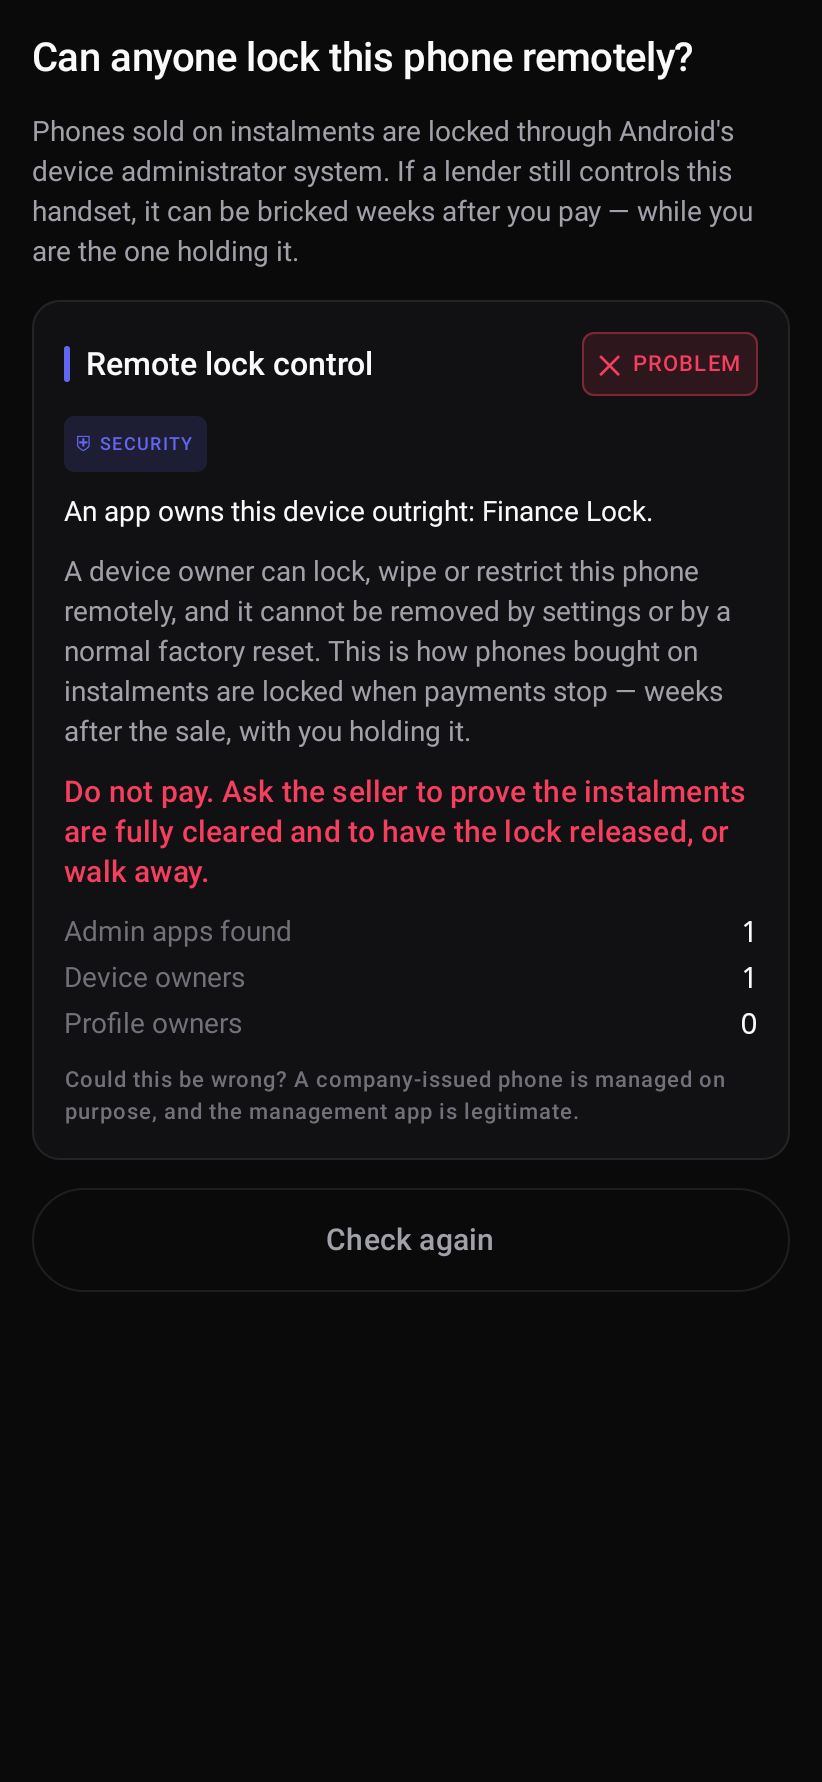
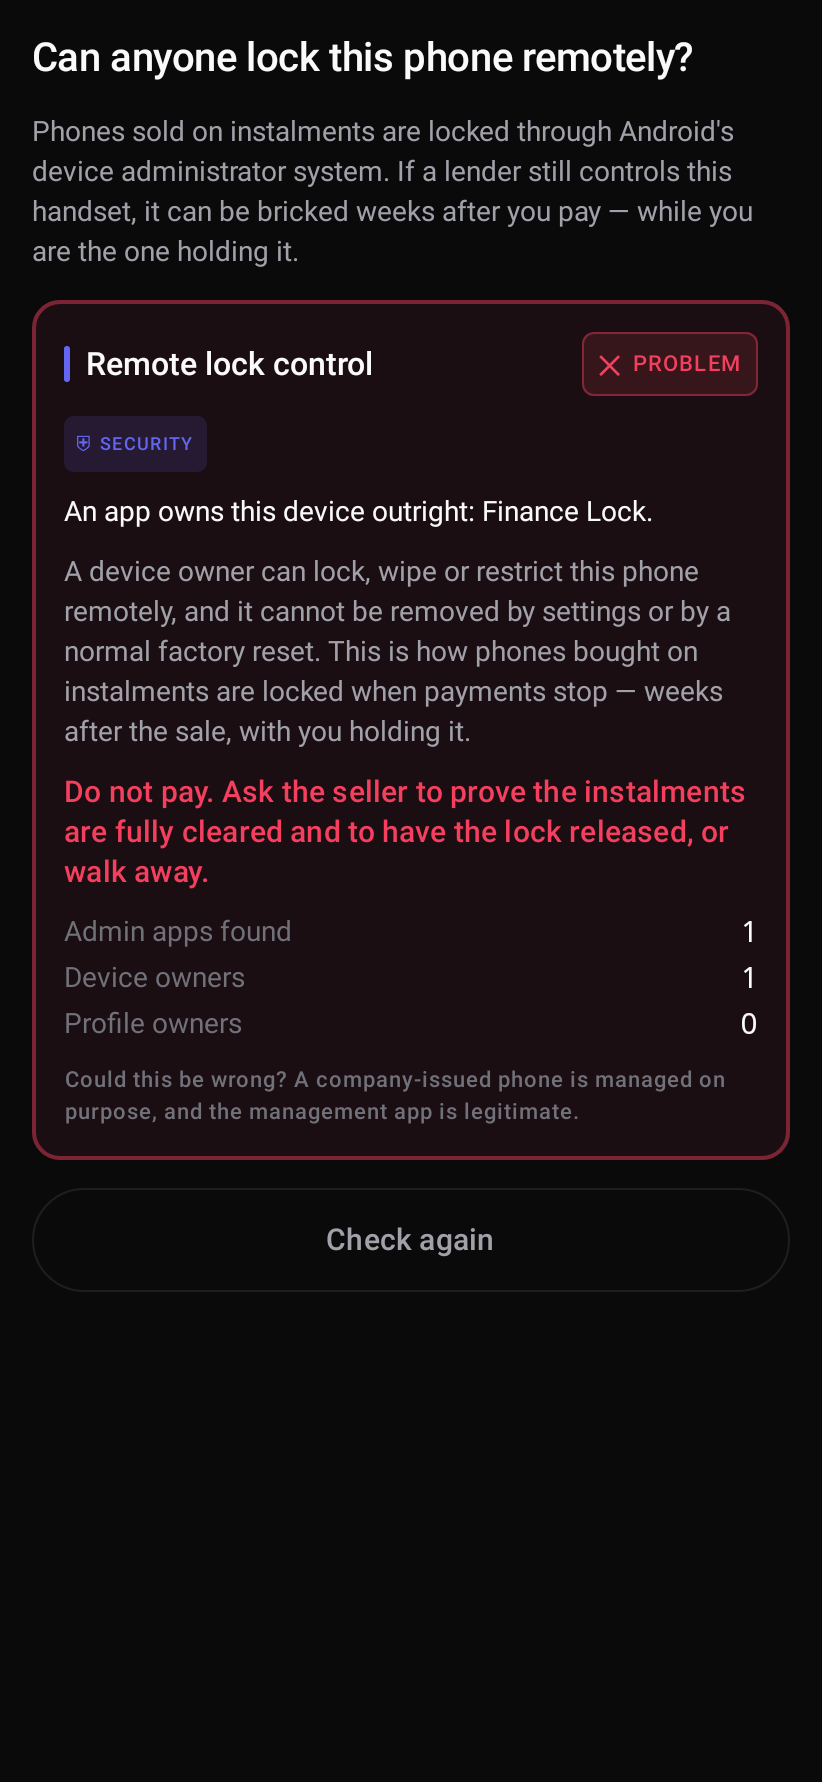
Make a problem card impossible to scroll past
A rooted phone, an unlocked bootloader or a lender's device-owner lock are all
walk-away findings, and a red badge alone was not carrying that weight in a
seven-card report. A FAIL card now has a 2dp border, a faint red fill, and a
border that breathes continuously. PASS gets a green border and CAUTION amber,
so the report is scannable by colour before a word is read.

This is a deliberate exception to this project's own rule against looping
animation, so it is recorded in the design-system steering rather than done
quietly. The constraints are what make it acceptable:

  0.7 Hz. A 700ms tween on RepeatMode.Reverse, so a 1.4 second cycle. WCAG 2.3.1
  puts the photosensitive-seizure threshold at three flashes per second and notes
  people are MORE sensitive to red flashing than any other colour, with a
  separate stricter test for saturated red. A continuous red strobe was the
  original request; this runs an order of magnitude below the threshold instead.

  It ramps smoothly rather than switching on and off, so it reads as a breathe
  rather than a flash, and it animates a border and a faint fill — never the
  whole card, never the text.

  CheckResultCard(emphasise = false) must be used anywhere a measurement runs.
  The battery check cannot produce an honest reading beside an animating surface,
  which is the reason the no-looping rule existed in the first place.

Colour is still never the only signal: every card keeps its glyph, its word and
[…]

Changed region(s): [[0.0304, 0.1543, 0.0608, 0.6481], [0.9428, 0.1852, 0.9732, 0.6481]]

diff --git a/core/designsystem/src/main/kotlin/com/phoneproof/core/designsystem/component/CheckResultCard.kt b/core/designsystem/src/main/kotlin/com/phoneproof/core/designsystem/component/CheckResultCard.kt
@@ -1,5 +1,11 @@
 package com.phoneproof.core.designsystem.component
 
+import androidx.compose.animation.core.FastOutSlowInEasing
+import androidx.compose.animation.core.RepeatMode
+import androidx.compose.animation.core.animateFloat
+import androidx.compose.animation.core.infiniteRepeatable
+import androidx.compose.animation.core.rememberInfiniteTransition
+import androidx.compose.animation.core.tween
 import androidx.compose.foundation.background
 import androidx.compose.foundation.border
 import androidx.compose.foundation.layout.Box
@@ -21,6 +27,7 @@ import androidx.compose.ui.text.style.TextAlign
 import androidx.compose.ui.unit.dp
 import com.phoneproof.core.designsystem.theme.PhoneProofColors
 import com.phoneproof.core.designsystem.theme.PhoneProofType
+import com.phoneproof.core.model.CheckOutcome
 import com.phoneproof.core.model.CheckResult
 
 /**
@@ -34,19 +41,56 @@ import com.phoneproof.core.model.CheckResult
  * PASS and CAN'T TELL, because `CheckResult` refuses to be constructed without them for anything
  * negative. This composable cannot render a bare verdict even if someone tries.
  */
+/**
+ * @param emphasise when true, a `FAIL` card breathes slowly so a walk-away finding cannot be
+ *   scrolled past. Set false anywhere a measurement is running — a continuously animating surface is
+ *   an uncontrolled CPU and screen load, and the battery check measures discharge under a load it
+ *   controls.
+ */
 @Composable
 fun CheckResultCard(
     result: CheckResult,
     modifier: Modifier = Modifier,
+    emphasise: Boolean = true,
 ) {
     val accent = result.outcome.accent()
     val category = CheckCategory.forCheckId(result.id)
+    val isProblem = result.outcome == CheckOutcome.FAIL
+
+    // A slow breathe, not a flash. W3C WCAG 2.3.1 puts the photosensitive-seizure threshold at three
+    // flashes per second and notes people are *more* sensitive to red flashing than any other
+    // colour, with a separate stricter test for saturated red. A 1.4 second cycle is 0.7 Hz — an
+    // order of magnitude below that line — and it ramps smoothly rather than switching on and off,
+    // so it never reads as a flash at all. It still cannot be ignored, which is the point.
+    val pulse: Float = if (isProblem && emphasise) {
+        val transition = rememberInfiniteTransition(label = "problemPulse")
+        transition.animateFloat(
+            initialValue = 0f,
+            targetValue = 1f,
+            animationSpec = infiniteRepeatable(
+                animation = tween(durationMillis = 700, easing = FastOutSlowInEasing),
+                repeatMode = RepeatMode.Reverse,
+            ),
+            label = "problemPulseAlpha",
+        ).value
+    } else {
+        0f
+    }
+
+    val borderColour = when (result.outcome) {
+        CheckOutcome.FAIL -> accent.copy(alpha = 0.45f + 0.45f * pulse)
+        CheckOutcome.PASS -> accent.copy(alpha = 0.38f)
+        CheckOutcome.CAUTION -> accent.copy(alpha = 0.34f)
+        CheckOutcome.UNKNOWN -> PhoneProofColors.Border
+    }
+    val borderWidth = if (isProblem) 2.dp else 1.dp
+    val fill = if (isProblem) accent.copy(alpha = 0.07f) else PhoneProofColors.Surface
 
     Column(
         modifier = modifier
             .fillMaxWidth()
-            .background(PhoneProofColors.Surface, RoundedCornerShape(14.dp))
-            .border(1.dp, PhoneProofColors.Border, RoundedCornerShape(14.dp))
+            .background(fill, RoundedCornerShape(14.dp))
+            .border(borderWidth, borderColour, RoundedCornerShape(14.dp))
             .padding(16.dp),
         verticalArrangement = Arrangement.spacedBy(10.dp),
     ) {

diff --git a/.kiro/steering/design-system.md b/.kiro/steering/design-system.md
@@ -61,11 +61,30 @@ Verdict reveal        spring(dampingRatio = 0.60f) — the one overshoot in the 
 Haptics               CONFIRM on pass, REJECT on fail
 ```
 
-### Hard rule: no looping or continuous animation, anywhere
+### Rule: no looping animation, with exactly one documented exception
 
 This is not a style preference. The app measures battery discharge under a load it controls.
 A perpetually animating background is an uncontrolled load and **would corrupt the measurement**.
-An infinite animation is a correctness bug in this codebase.
+
+#### The exception: a `FAIL` card breathes
+
+A result card with outcome `FAIL` pulses its border continuously, because a walk-away finding —
+a rooted phone, an unlocked bootloader, a lender's device-owner lock — must not be scrollable past.
+
+It is constrained, and the constraints are the reason it is allowed:
+
+- **0.7 Hz** (a 700 ms tween on `RepeatMode.Reverse`, so a 1.4 second cycle).
+  [W3C WCAG 2.3.1](https://www.w3.org/WAI/WCAG21/Understanding/three-flashes-or-below-threshold)
+  sets the photosensitive-seizure threshold at **three flashes per second**, and notes that people
+  are *more* sensitive to red flashing than to any other colour, with a separate stricter test for
+  saturated red. This runs an order of magnitude below that line.
+- **It ramps smoothly rather than switching on and off**, so it reads as a breathe, not a flash.
+- **It is a border and a faint fill**, never the whole card and never the text.
+- `CheckResultCard(emphasise = false)` **must** be used anywhere a measurement is running. That is
+  not optional: the battery check cannot produce an honest reading next to an animating surface.
+
+Nothing else in the app loops. If a second exception is ever wanted, it needs the same three things:
+a rate below the flash threshold, a way to switch it off during measurement, and a written reason.
 
 ## Window insets — every screen, every time
 
